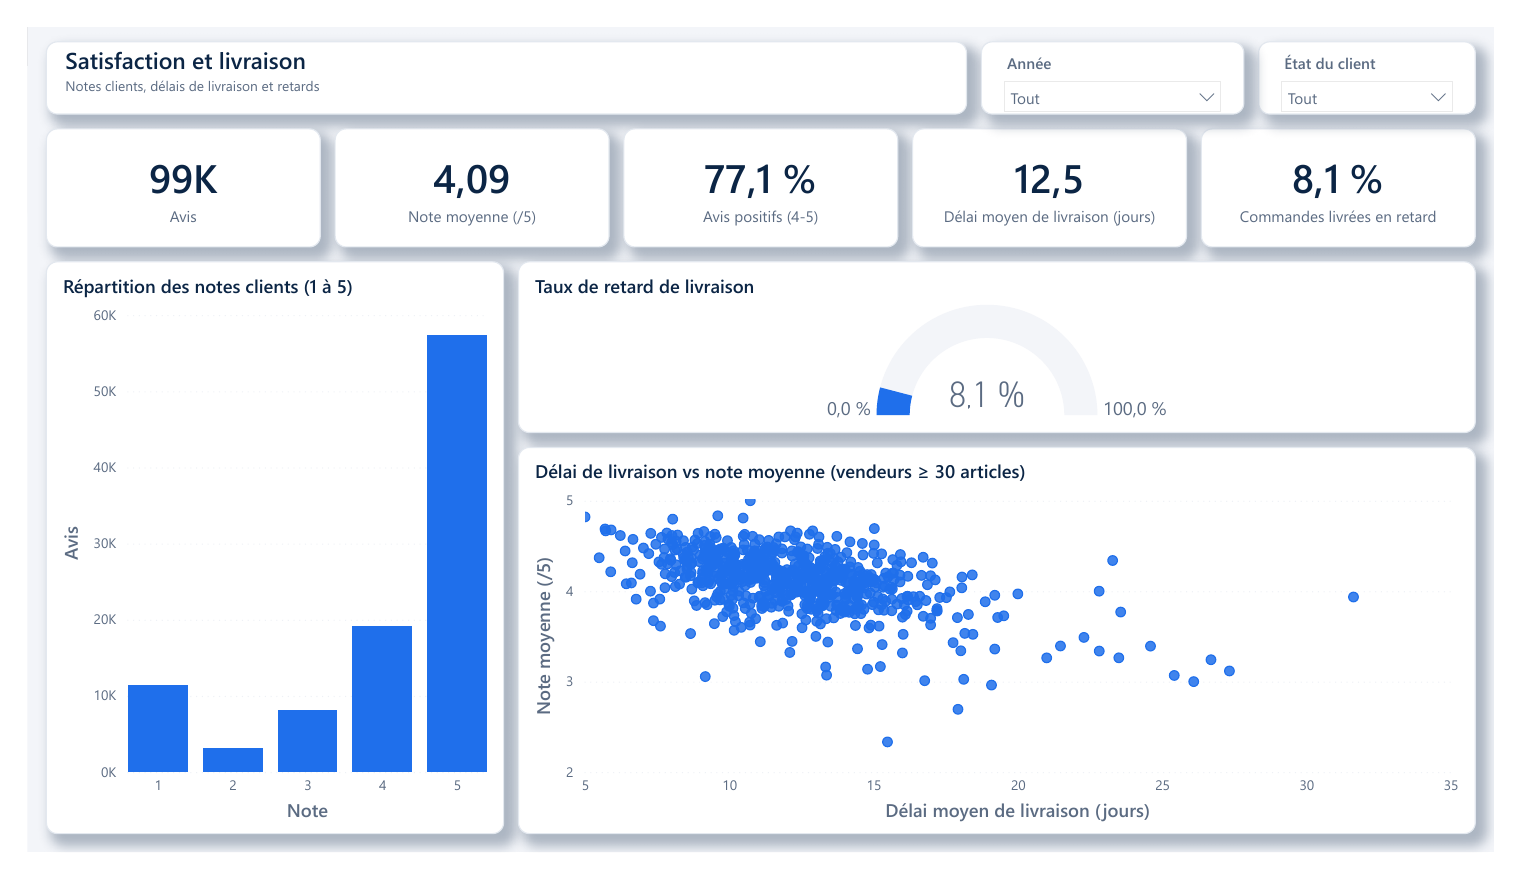
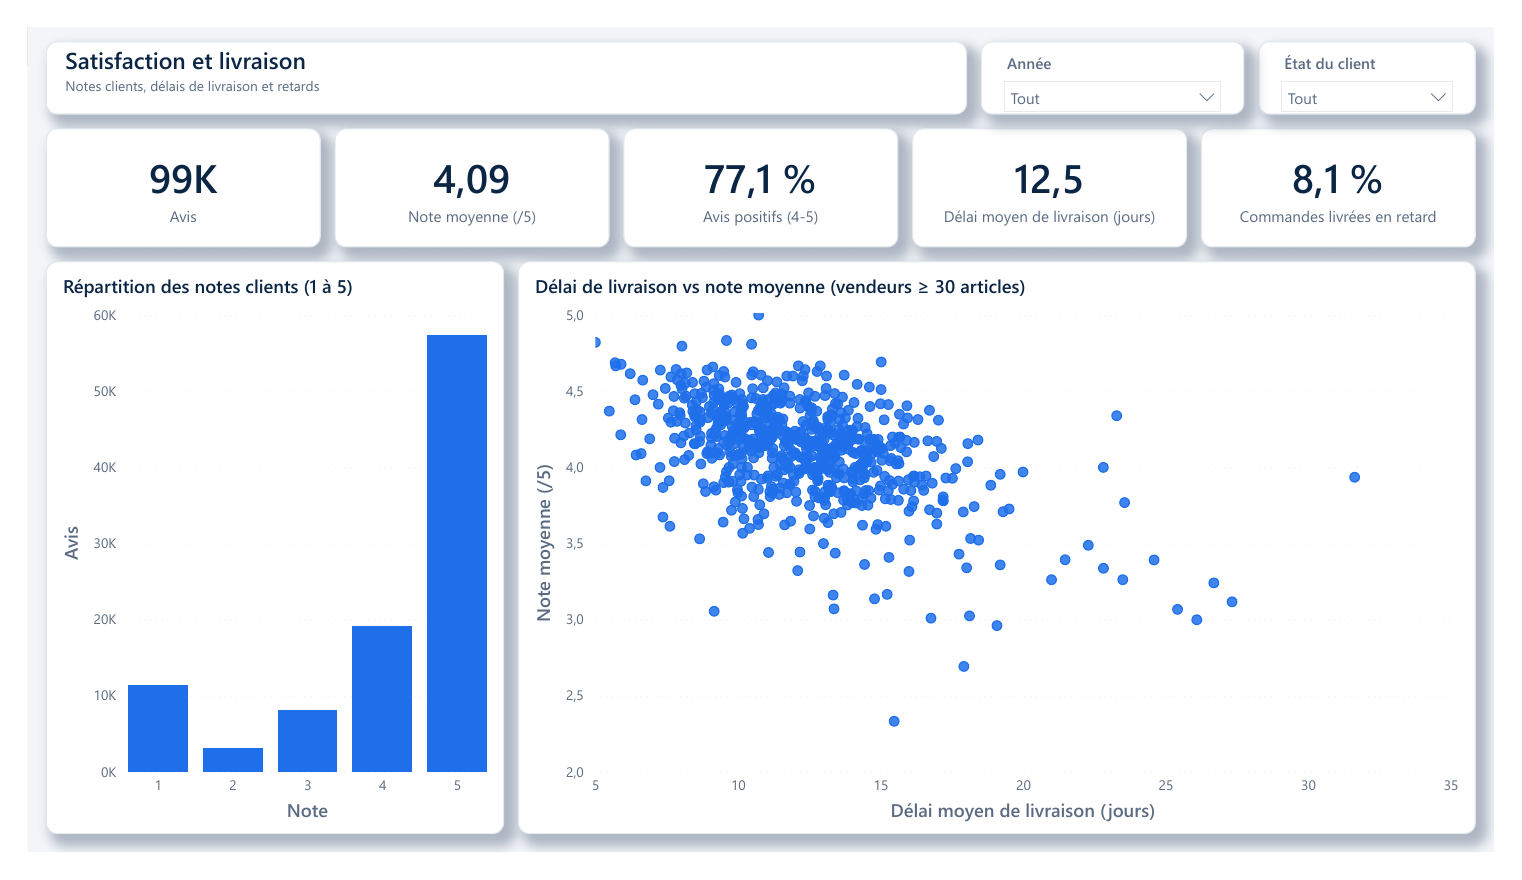
Suppression de la table geolocation (non utilisée, 61 Mo) et mise à jour des captures

diff --git a/README.md b/README.md
@@ -47,7 +47,7 @@ Deux rôles statiques, `Responsable régional SP` et `Responsable régional RJ`,
 
 ## Actualiser le rapport sur n'importe quel PC
 
-Les requêtes Power Query ne dépendent plus d'un dossier local : les 9 CSV sont lus directement depuis le dépôt public d'Olist sur GitHub, via le paramètre `OlistDataUrl` :
+Les requêtes Power Query ne dépendent plus d'un dossier local : les 8 CSV utilisés sont lus directement depuis le dépôt public d'Olist sur GitHub, via le paramètre `OlistDataUrl` :
 
 ```
 https://raw.githubusercontent.com/olist/work-at-olist-data/master/datasets/
